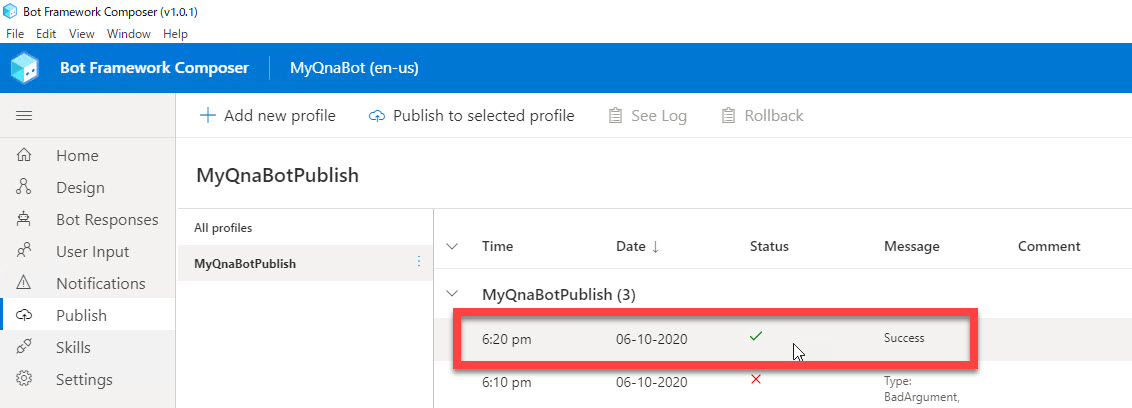
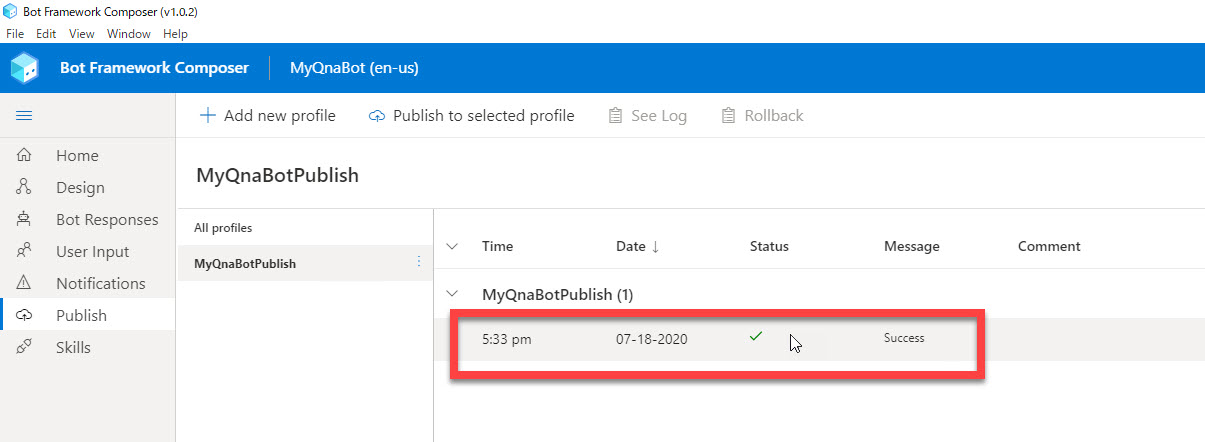
Update Chapter 7 for Composer 1.0.2
Chapter 6 を Composer 1.0.2 用に改訂

diff --git a/docs/07_deploy_bot.md b/docs/07_deploy_bot.md
@@ -94,7 +94,7 @@ Bot Framework Composer では、必要な **リソースを一括して作成す
 
    ![](./images/07/shell_az_login.jpg)
 
-   > v1.0.1 では "User was not found." と表示されてリソースの作成ができないことがあります。  
+   > v1.0.2 では "User was not found." と表示されてリソースの作成ができないことがあります。  
    > これは **Microsoft アカウント** に紐づいた Azure サブスクリプションの場合に発生するようです。
    >
    > <img src="./images/07/shell_provision_error.jpg" width="320px" />
@@ -114,7 +114,7 @@ Bot Framework Composer では、必要な **リソースを一括して作成す
    "**{**" から "**}**" までの全体が Configuration です。これをクリップボードにコピーします。  
 
    > Configuration はメモ帳などに記録しておくことをお勧めします。
-   > このステップの最後（Bot Framework Emulator でのテスト）でも、Configuration の一部の値が必要になります
+   > このステップの最後（Bot Framework Emulator でのテスト）でも Configuration の一部の値が必要になります
 
    <img src="./images/07/shell_resources_created.jpg" width="540px" />
 
@@ -132,7 +132,7 @@ Bot Framework Composer では、必要な **リソースを一括して作成す
 
 Bot Framework Composer に戻って、作成したapplicationを Azure に発行します。
 
-1. Bot Framework Composer で [**Settings**] - [**+ Add new profile**] を選択して、 発行用のプロファイルを作成します。  
+1. Bot Framework Composer で [**Publish**] - [**+ Add new profile**] を選択して、 発行用のプロファイルを作成します。  
    入力したら [**Save**] をクリックします。
 
    |項目|内容|
